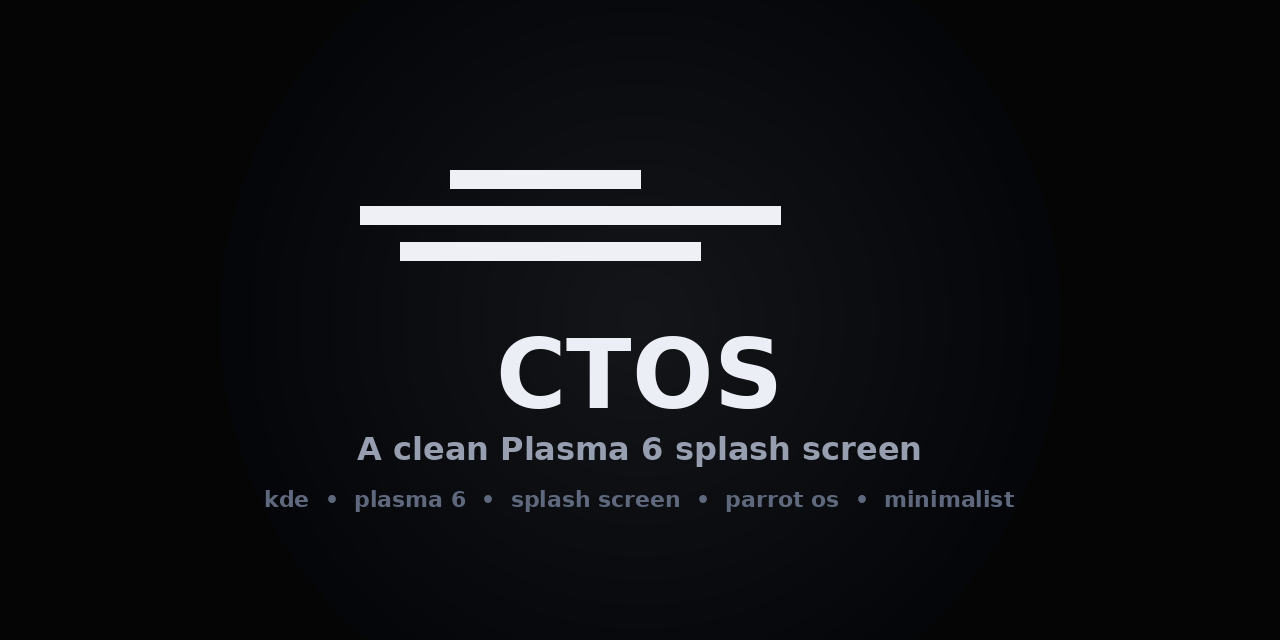
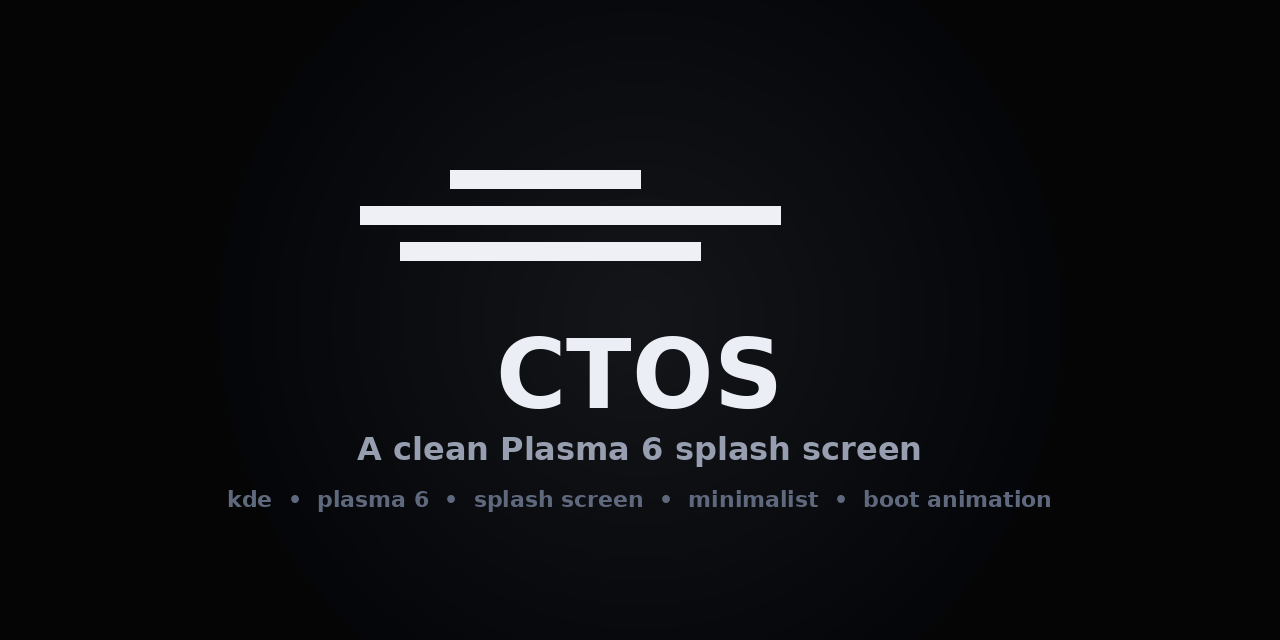
Show live GIF in README; remove all third-party branding
- README now leads with the actual animated GIF (assets/animation.gif)
  instead of a static image, so visitors see the splash play inline.
- Removed all references to the original distribution/source theme.
  The repo now presents CTOS purely on its own merits.
- metadata.json: author updated, description reframed, website points
  to this repo, version bumped to 1.0.0.
- Dropped the now-unused static preview.png.
- Regenerated social-card.png without third-party tags.

Changed region(s): [[0.1875, 0.75, 0.8125, 0.8125]]

diff --git a/README.md b/README.md
@@ -1,12 +1,19 @@
 <div align="center">
 
-<img src="assets/social-card.png" alt="CTOS Splash" width="640"/>
-
 # CTOS — Plasma 6 Splash Screen
 
-A clean, minimalist splash screen for **KDE Plasma 6** inspired by the ctOS boot sequence from *Watch Dogs*.
+A clean, minimalist splash screen for **KDE Plasma 6** inspired by the ctOS boot sequence.
 
-Just the animation on a pure black background. **No logos. No branding text. No spinner.**
+Pure black background. Just the animation. **No logos. No branding text. No spinner.**
+
+</div>
+
+<br/>
+<div align="center">
+
+<img src="assets/animation.gif" alt="CTOS splash animation" width="420"/>
+
+<sub>The actual splash animation, playing in real time.</sub>
 
 </div>
 
@@ -14,24 +21,11 @@ Just the animation on a pure black background. **No logos. No branding text. No 
 
 ## Why
 
-The default Parrot Security splash shows a nice CTOS-style animation — but it also stamps a **"Welcome to Parrot Security"** banner and the Parrot logo at the bottom. This theme strips all of that away and keeps only the animation, on a clean black screen.
-
-It ships as a standalone Plasma Look-and-Feel package, so it shows up as its own entry named **CTOS** in your Splash Screen settings.
-
-## Preview
-
-<div align="center">
-<table>
-<tr>
-<td align="center"><b>Splash screen</b><br/><img src="assets/preview.png" alt="splash preview" width="400"/></td>
-<td align="center"><b>What gets removed</b><br/><sub>The bottom "Welcome to Parrot Security" text and logo are gone.</sub></td>
-</tr>
-</table>
-</div>
+Most splash screens clutter the boot with logos, distribution names, and spinners. **CTOS** keeps it simple — a centered animation on a pure black screen, and nothing else. It installs as its own entry named **CTOS** in your Splash Screen settings.
 
 ## Requirements
 
-- KDE Plasma **6** (Plasma 5 is not supported — the QML uses Plasma 6 APIs)
+- KDE Plasma **6** (not compatible with Plasma 5)
 
 Check your version:
 
@@ -49,10 +43,10 @@ Pick whichever method you're comfortable with.
 curl -fsSL https://raw.githubusercontent.com/debarch777/ctos-plasma-splash/main/install.sh -o /tmp/ctos-install.sh && bash /tmp/ctos-install.sh
 ```
 
-### Method 2 — Manual (download .zip)
+### Method 2 — Manual (.zip download)
 
 1. Go to **[Releases](https://github.com/debarch777/ctos-plasma-splash/releases)**
-2. Download `CTOS.zip` (or download the `src/CTOS` folder from **Code → Download ZIP**)
+2. Download `CTOS.zip`
 3. Unzip so you have a folder called `CTOS` containing `metadata.json` and `contents/`
 4. Move it into place:
    ```bash
@@ -88,11 +82,10 @@ Then pick a different splash in System Settings.
 
 ## How it works
 
-The theme is a Plasma Look-and-Feel package. The interesting file is
+The theme is a Plasma Look-and-Feel package. The layout lives in
 [`src/CTOS/contents/splash/Splash.qml`](src/CTOS/contents/splash/Splash.qml) —
-it's just a fullscreen black `Rectangle` with a centered `AnimatedImage` playing
-`animation.gif`. That's it. The original Parrot theme's bottom Row (text + logo)
-and the busy spinner were removed.
+just a fullscreen black `Rectangle` with a centered `AnimatedImage` playing
+`animation.gif`. That's it.
 
 Tweak freely:
 
@@ -115,23 +108,13 @@ ctos-plasma-splash/
 │               └── images/
 │                   └── animation.gif  ← the CTOS-style animation
 ├── install.sh                         ← one-line installer
-├── assets/                            ← repo graphics (preview, social card)
+├── assets/                            ← repo graphics (animation, social card)
 └── README.md
 ```
 
-## Credits & License
+## License
 
-This theme is a derived work. The original animation, layout, and concept come
-from the **[Parrot Security](https://gitlab.com/parrotsec/packages/parrot-core)**
-splash screen by the Parrot team (Lorenzo Faletra) and ferretwithaberet.
-
-- Animation artwork © its respective authors
-- Code (`Splash.qml`) licensed under **GPLv2+** (inherited from the original)
-- The `CTOS` name references the fictional operating system from Ubisoft's
-  *Watch Dogs*; this project is not affiliated with or endorsed by Parrot,
-  KDE, or Ubisoft.
-
-## Acknowledgements
-
-- [Parrot Security](https://www.parrotsec.org/) — original theme
-- [KDE Plasma](https://kde.org/plasma-desktop/) — the desktop this beautifies
+- Code (`Splash.qml`) licensed under **GPLv2+**. See [LICENSE](LICENSE).
+- Animation artwork © its respective authors.
+- "ctOS" references the fictional operating system from Ubisoft's *Watch Dogs*;
+  this project is not affiliated with or endorsed by Ubisoft or KDE.